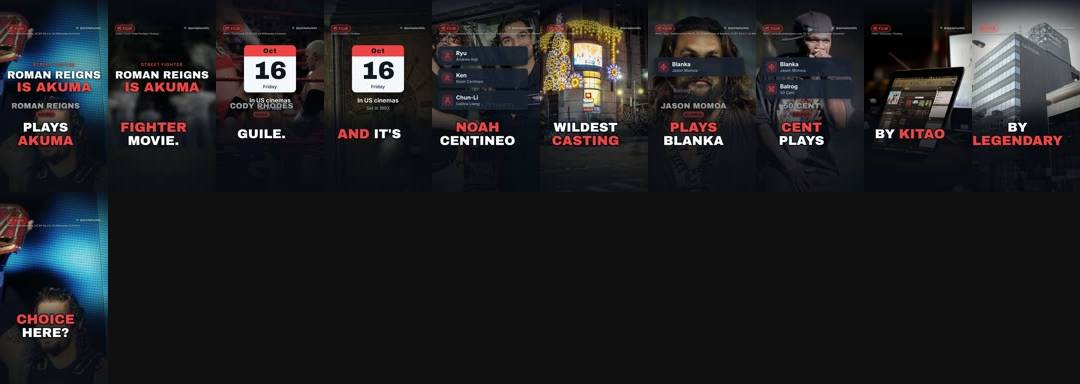
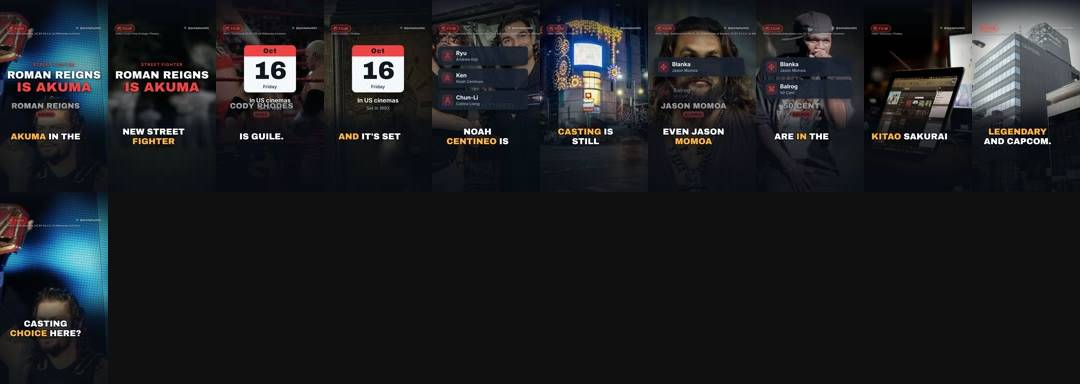
Results from run 41

diff --git a/review/README.md b/review/README.md
@@ -6,7 +6,6 @@ Instagram: connected as quickplaydaily · TikTok: connected (checked Sun 18 Oct 
 
 ## Needs a look
 
-- **QD-039** Street Fighter movie: Roman Reigns is Akuma 🥋: failed. RuntimeError: checks failed: unclear narration in beats [4]
 - **TEST-L1** Street Fighter hits cinemas today 🥊: failed. RuntimeError: checks failed: unclear narration in beats [2, 3]
 - **TEST-L2** Street Fighter hits cinemas today 🥊: failed. RuntimeError: checks failed: unclear narration in beats [2, 3]
 - **TEST-L3** Street Fighter hits cinemas today 🥊: failed. RuntimeError: checks failed: unclear narration in beats [2, 3]
